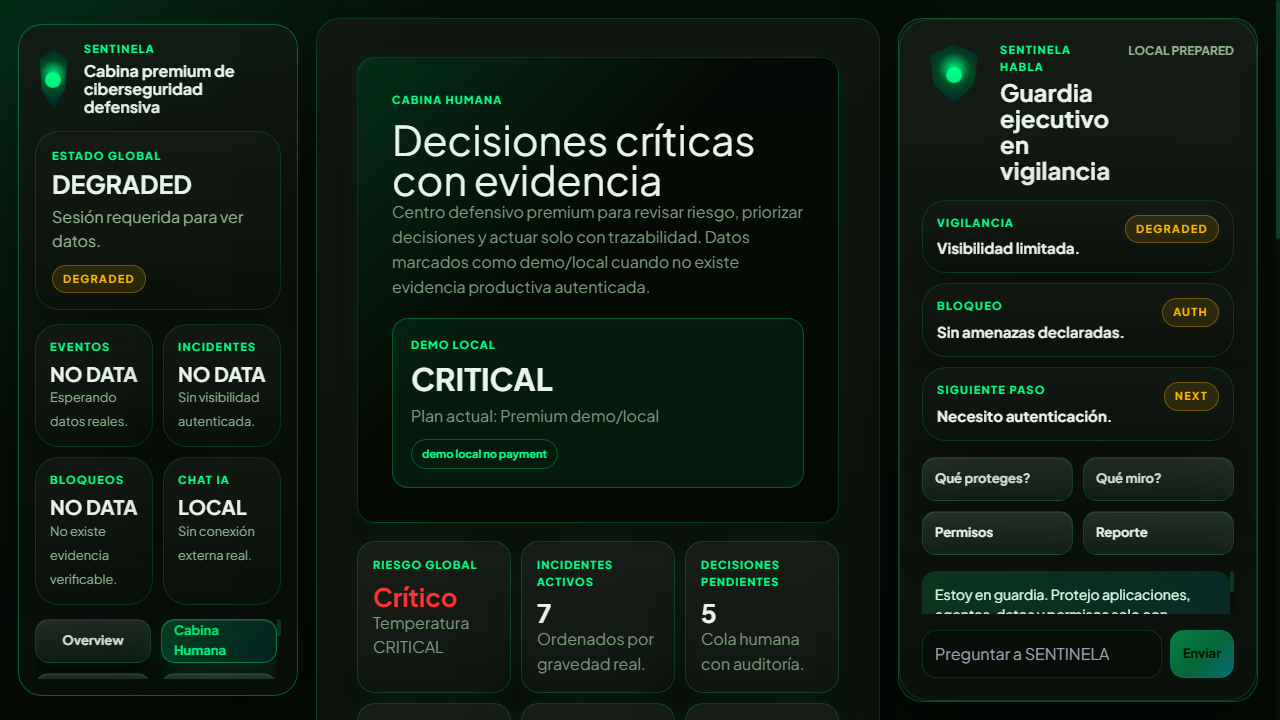
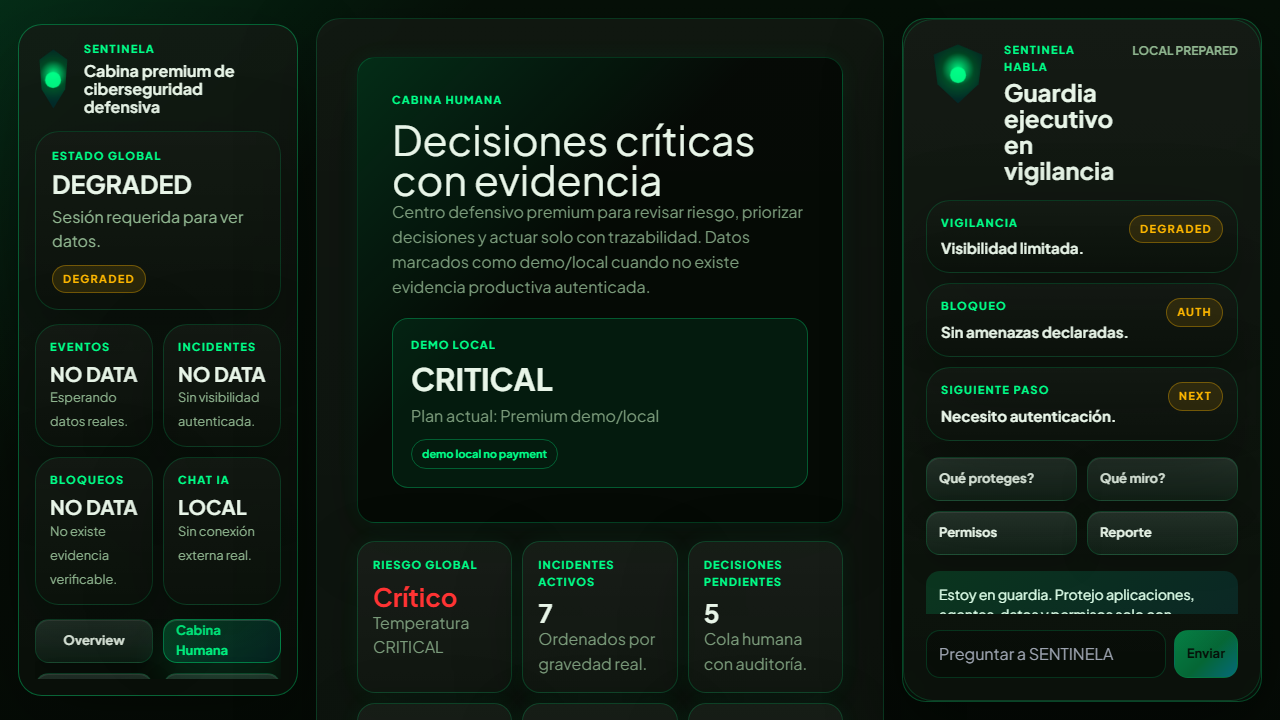
add sentinela chat panel to human cabin

diff --git a/app/globals.css b/app/globals.css
@@ -2201,3 +2201,108 @@ html, body {
     grid-template-columns: repeat(4, minmax(0, 1fr));
   }
 }
+
+/* Final mobile guard: keep Human Cabin inside the SENTINELA viewport. */
+@media (max-width: 520px) {
+  .human-cabin-shell:has(.sentinela-human-premium) {
+    width: 100%;
+    max-width: 100vw;
+    gap: 12px;
+    padding: 10px 10px 154px;
+    overflow-x: clip;
+  }
+
+  .human-cabin-shell:has(.sentinela-human-premium) .human-left-panel,
+  .human-cabin-shell:has(.sentinela-human-premium) .human-center-panel,
+  .human-cabin-shell:has(.sentinela-human-premium) .human-right-panel,
+  .human-cabin-shell:has(.sentinela-human-premium) .human-chat-card {
+    width: 100%;
+    max-width: calc(100vw - 20px);
+    min-width: 0;
+    margin-inline: auto;
+  }
+
+  .human-cabin-shell:has(.sentinela-human-premium) .human-brand,
+  .human-cabin-shell:has(.sentinela-human-premium) .human-chat-heading {
+    grid-template-columns: auto minmax(0, 1fr);
+    align-items: center;
+    min-width: 0;
+  }
+
+  .human-cabin-shell:has(.sentinela-human-premium) .human-brand {
+    display: grid;
+  }
+
+  .human-cabin-shell:has(.sentinela-human-premium) .human-brand > div,
+  .human-cabin-shell:has(.sentinela-human-premium) .human-chat-heading > div {
+    min-width: 0;
+  }
+
+  .human-cabin-shell:has(.sentinela-human-premium) .human-brand strong,
+  .human-cabin-shell:has(.sentinela-human-premium) .human-chat-heading strong,
+  .human-cabin-shell:has(.sentinela-human-premium) .sentinela-command-header h1,
+  .human-cabin-shell:has(.sentinela-human-premium) .sentinela-command-header p {
+    max-width: 100%;
+    overflow-wrap: anywhere;
+    word-break: normal;
+  }
+
+  .human-cabin-shell:has(.sentinela-human-premium) .human-brand strong {
+    max-width: 230px;
+    font-size: 14px;
+    line-height: 1.18;
+  }
+
+  .human-cabin-shell:has(.sentinela-human-premium) .sentinela-command-header h1 {
+    max-width: 300px;
+    font-size: 28px;
+    line-height: 1.06;
+  }
+
+  .human-cabin-shell:has(.sentinela-human-premium) .sentinela-command-header p {
+    max-width: 300px;
+    font-size: 14px;
+    line-height: 1.45;
+  }
+
+  .human-cabin-shell:has(.sentinela-human-premium) .human-avatar {
+    width: 56px;
+    height: 56px;
+    border-radius: 18px;
+  }
+
+  .human-cabin-shell:has(.sentinela-human-premium) .human-avatar::before {
+    margin-top: 20px;
+  }
+
+  .human-cabin-shell:has(.sentinela-human-premium) .human-center-panel {
+    padding: 0 0 12px;
+  }
+
+  .human-cabin-shell:has(.sentinela-human-premium) .human-right-panel {
+    padding-bottom: 8px;
+  }
+
+  .human-cabin-shell:has(.sentinela-human-premium) .human-chat-card {
+    min-height: auto;
+    padding: 18px;
+  }
+
+  .human-cabin-shell:has(.sentinela-human-premium) .human-mobile-nav {
+    width: calc(100vw - 20px);
+    max-width: calc(100vw - 20px);
+    left: 10px;
+    right: 10px;
+    grid-template-columns: repeat(2, minmax(0, 1fr));
+    gap: 6px;
+    overflow: hidden;
+  }
+
+  .human-cabin-shell:has(.sentinela-human-premium) .human-mobile-nav a {
+    min-width: 0;
+    padding: 0 3px;
+    min-height: 42px;
+    white-space: normal;
+    overflow-wrap: anywhere;
+  }
+}

diff --git a/components/ClientLayout.tsx b/components/ClientLayout.tsx
@@ -191,12 +191,12 @@ export default function ClientLayout({ children }: { children: React.ReactNode }
         {children}
       </main>
 
-      <aside className="human-right-panel" id="sentinela-talk-panel" aria-label="SENTINELA habla">
+      <aside className="human-right-panel" id="sentinela-talk-panel" aria-label="SENTINELA HABLA">
         <section className="human-chat-card">
           <header className="human-chat-heading">
             <div className="human-avatar shield-avatar" aria-hidden="true" />
             <div>
-              <span>SENTINELA habla</span>
+              <span>SENTINELA HABLA</span>
               <strong>Guardia ejecutivo en vigilancia</strong>
             </div>
             <small>LOCAL PREPARED</small>

diff --git a/SENTINELA_CLOUD_ECOSYSTEM_INTEGRATION_REPORT.md b/SENTINELA_CLOUD_ECOSYSTEM_INTEGRATION_REPORT.md
@@ -1,0 +1,65 @@
+# SENTINELA Cloud Ecosystem Integration Report
+
+Fecha/hora local: 2026-06-11 04:30 America/Lima
+
+## Alcance
+
+- Frente: CENTINELA Cabina Humana + integración cloud existente.
+- Frontend: `C:\Users\admin\Desktop\centinela`.
+- Backend: `C:\Users\admin\Desktop\centinela-backend`.
+- No se tocó backend.
+- No se tocó DCFT, HERMES, FORJA, CEREBRO, Mercado Pago ni componentes externos.
+- No se expone fuente interna protegida en UI pública.
+
+## Cambio aplicado
+
+- Se reutilizó el panel existente de conversación de `components/ClientLayout.tsx`.
+- El rótulo visible y accesible quedó normalizado como `SENTINELA HABLA`.
+- `/human-cabin` mantiene el mismo shell principal que Overview, incluyendo sidebar y panel derecho.
+- Se agregó un guard CSS mobile para Cabina Humana premium en `app/globals.css`, evitando cortes de texto y bottom nav incompleta en 390x844.
+
+## Validación local
+
+- `/`: HTTP 200.
+- `/human-cabin`: HTTP 200.
+- `/cabina`: redirige a `/human-cabin`.
+- `/cabina-humana`: redirige a `/human-cabin`.
+- CSS Next local: HTTP 200.
+- JS Next local: HTTP 200.
+- Navegación desde sidebar: `/` -> click `Cabina Humana` -> `/human-cabin`.
+- Consola navegador: 0 errores.
+- Overflow horizontal: no.
+- HTML crudo: no.
+- `SENTINELA HABLA`: visible en Overview y Cabina Humana.
+- Input `Preguntar a SENTINELA`: presente.
+- Sombra: no aparece en UI pública.
+- Acceso CEO público: no aparece.
+
+## Capturas locales
+
+- `outputs/sentinela-overview-final-before-deploy.png`
+- `outputs/sentinela-human-cabin-final-with-chat-desktop.png`
+- `outputs/sentinela-human-cabin-final-with-chat-mobile-390x844.png`
+- `outputs/sentinela-human-cabin-final-nav-from-home.png`
+- `outputs/sentinela-overview-after-human-cabin-chat-fix.png`
+
+## Validaciones técnicas
+
+- `npm run build`: PASS.
+- `git diff --check`: PASS.
+- Secret scan local: PASS, sin hallazgos.
+
+## Cloud
+
+- Frontend cloud declarado por el repo: `https://centinela-alpha.vercel.app`.
+- Backend cloud declarado por el frontend: `https://centinela-backend-kzwk.onrender.com`.
+- Producción debe validarse después del push/deploy controlado.
+
+## Riesgos
+
+- El working tree contiene archivos untracked antiguos no relacionados. No deben incluirse en este cierre.
+- El build local detecta rutas untracked bajo `app/api/`; no se agregarán al commit de este cierre.
+
+## Estado
+
+Local listo para commit/push/deploy controlado de CENTINELA, condicionado a mantener el commit limitado a archivos de este cierre.
